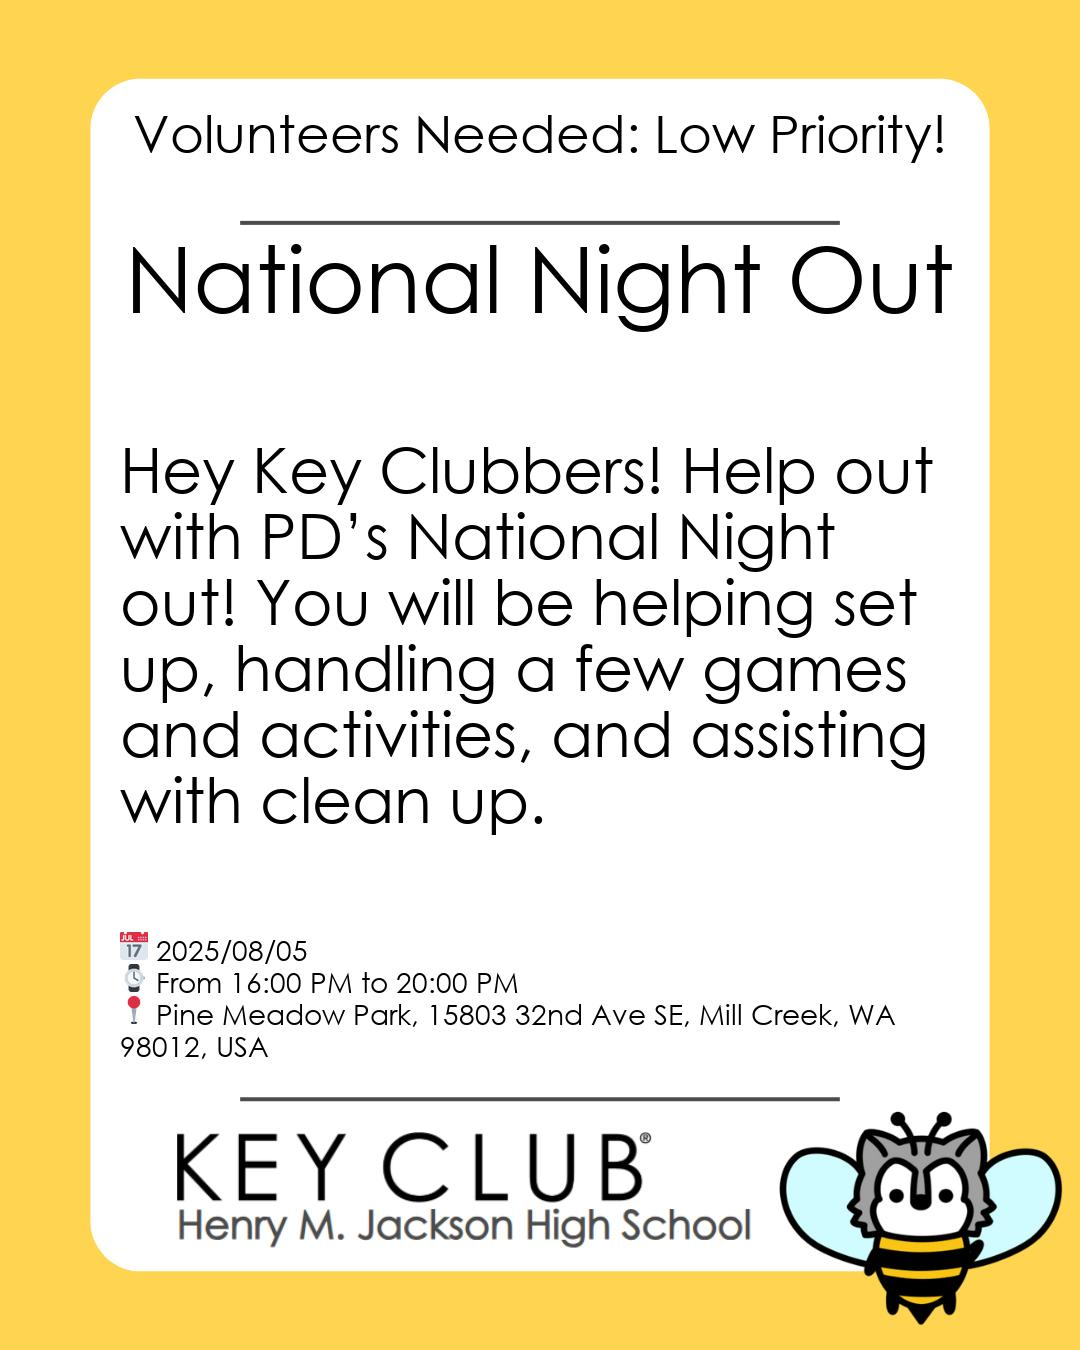
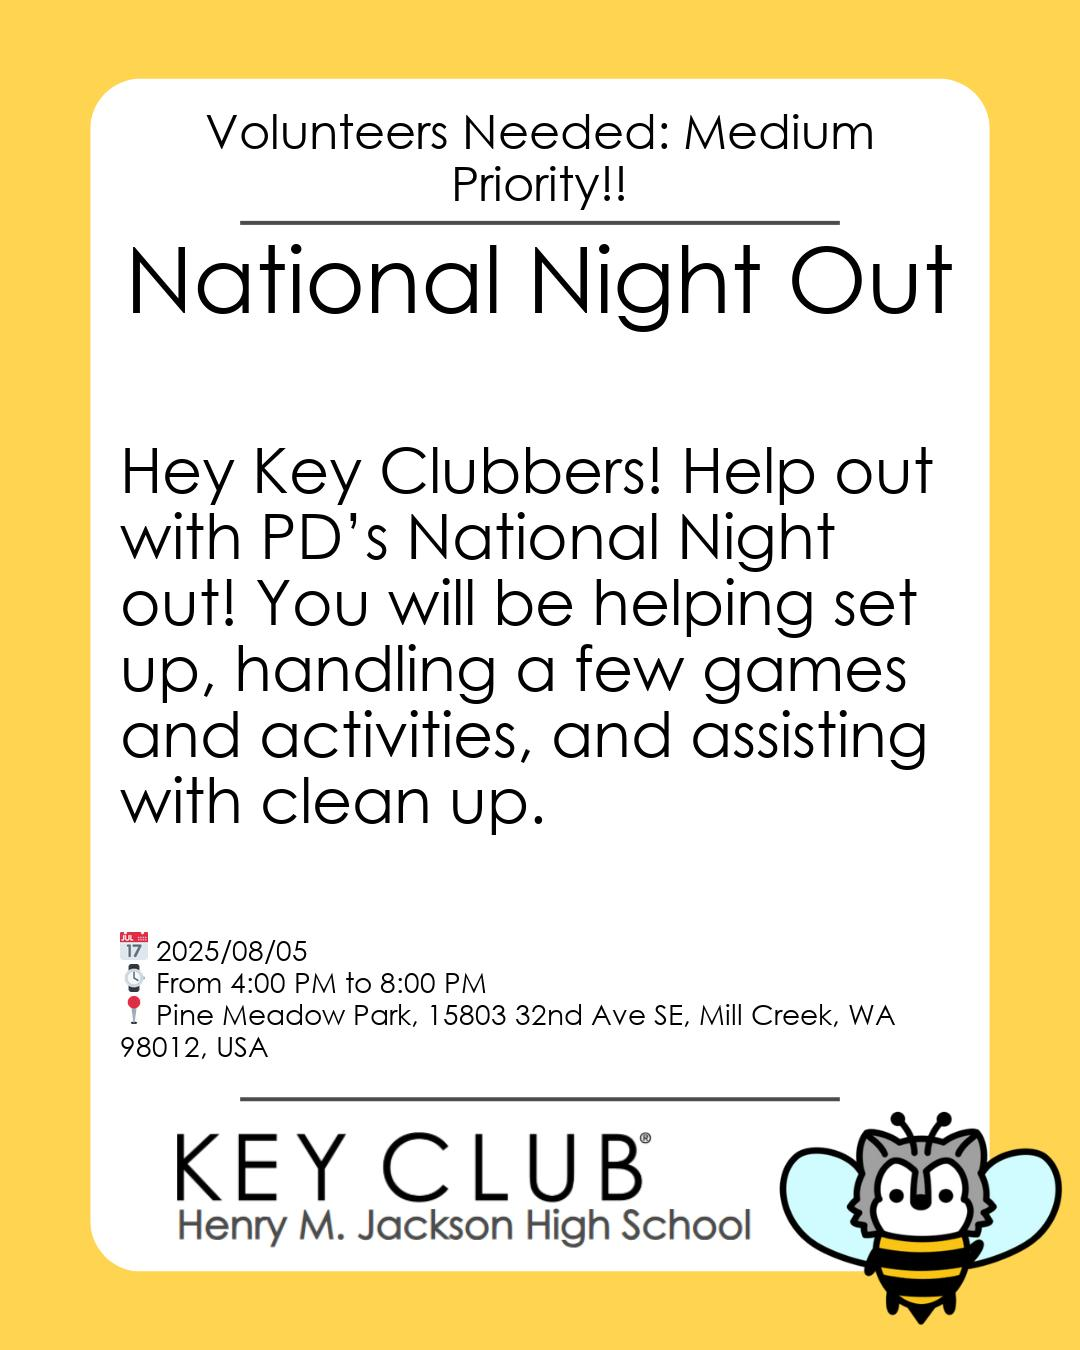
moved from tz offset to ZoneInfo

Changed region(s): [[0.1222, 0.0622, 0.8861, 0.1556], [0.2139, 0.7156, 0.4889, 0.7467]]

diff --git a/main.py b/main.py
@@ -1,4 +1,4 @@
-from utils import fill_template, post_to_instagram, get_events, update_current_events, add_to_current_events
+from utils import fill_template, post_to_instagram, get_events, update_current_events, add_to_current_events, TZFormatter
 
 from googleapiclient.discovery import build
 from google.oauth2.service_account import Credentials
@@ -9,7 +9,7 @@ from cloudinary import uploader as cloudinary_uploader
 from os import getenv
 from dotenv import load_dotenv
 from apscheduler.schedulers.blocking import BlockingScheduler
-from datetime import timezone, timedelta
+from zoneinfo import ZoneInfo
 import json, logging
 
 
@@ -22,7 +22,6 @@ docs_service = build("docs", "v1", credentials=credentials)
 
 calendar_service = build("calendar", "v3", credentials=credentials)
 calendar_id = getenv("CALENDAR_ID")
-tz_offset = timezone(timedelta(hours=-8))
 
 fb_token = getenv("FB_TOKEN")
 
@@ -33,12 +32,16 @@ cloudinary.config(
     secure=True
 )
 
-logging.basicConfig(
-    filename="actions.log",
-    level=logging.INFO,
-    format="%(asctime)s - %(name)s - %(levelname)s - %(message)s",
-    filemode="a" # append new messages
-)
+handler = logging.FileHandler(filename="actions.log", mode="a") # append new messages
+formatter = TZFormatter(fmt='[%(asctime)s] [%(levelname)s] %(name)s: %(message)s',
+                        datefmt='%Y-%m-%d %H:%M:%S',
+                        tz=ZoneInfo("America/Los_Angeles"))
+handler.setFormatter(formatter)
+
+logger = logging.getLogger()
+logger.setLevel(logging.INFO)
+logger.addHandler(handler)
+
 
 # main function that runs every day at 3:00
 def main():
@@ -46,7 +49,7 @@ def main():
     update_current_events()
 
     # gets list of events that should be posted
-    events = get_events(calendar_service=calendar_service, docs_service=docs_service, calendar_id=calendar_id, tz_offset=tz_offset)
+    events = get_events(calendar_service=calendar_service, docs_service=docs_service, calendar_id=calendar_id)
 
     for event in events:
         # creates output.jpg
@@ -62,6 +65,7 @@ def main():
         )
         image.save("output.jpg")
 
+        continue
         # uploads to cloudinary, gets asset id (for removal) and secure url (HTTPS url for posting)
         upload_result = cloudinary_uploader.upload(file="output.jpg", return_delete_token=True)
         public_id, secure_url = upload_result.get("public_id"), upload_result.get("secure_url")
@@ -77,6 +81,6 @@ def main():
         logging.info(f"Successfully posted {event.get('event_title')}")
 
 # runs main every day at 3:00 PM
-scheduler = BlockingScheduler()
+scheduler = BlockingScheduler(timezone=ZoneInfo("America/Los_Angeles"))
 scheduler.add_job(main, "cron", hour=15)
 scheduler.start()

diff --git a/utils.py b/utils.py
@@ -1,6 +1,7 @@
 # utility functions for main.py
 from PIL import Image, ImageFont
 from pilmoji import Pilmoji
+from zoneinfo import ZoneInfo
 from datetime import datetime, timedelta
 from cloudinary import uploader as cloudinary_uploader
 import requests, json, logging, re
@@ -127,8 +128,17 @@ def in_current_events(event_title):
 def format_time(datetime_param):
     datetime_param = datetime.fromisoformat(datetime_param).time()
     period = datetime_param.strftime("%p")
-    datetime_param = ":".join(str(datetime_param).split(":")[:2])  # removes the seconds slot from the time
-    datetime_param = f"{datetime_param} {period}"
+
+    # converts it to 12 hour time
+    hour, minute = datetime_param.hour, datetime_param.minute
+    if hour > 12:
+        hour -= 12
+    hour = str(hour)
+    # if the minute is single digit
+    if minute < 10:
+        minute = "0" + str(minute)
+    minute = str(minute)
+    datetime_param = f"{hour}:{minute} {period}"
 
     return datetime_param
 
@@ -229,9 +239,9 @@ def post_to_instagram(caption, image_url, fb_token):
         return container_id
 
 # returns a list of upcoming events that should be posted in the next 7 days
-def get_events(calendar_service, docs_service, calendar_id, tz_offset):
-    now = datetime.now(tz_offset).isoformat()
-    week = (datetime.now(tz_offset) + timedelta(days=7)).isoformat()
+def get_events(calendar_service, docs_service, calendar_id):
+    now = datetime.now(ZoneInfo("America/Los_Angeles")).isoformat()
+    week = (datetime.now(ZoneInfo("America/Los_Angeles")) + timedelta(days=7)).isoformat()
     all_events = calendar_service.events().list(calendarId=calendar_id, timeMin=now, timeMax=week).execute()
     all_events = all_events.get("items", [])
     return_events = []
@@ -281,3 +291,15 @@ def get_events(calendar_service, docs_service, calendar_id, tz_offset):
         except KeyError: pass
     logging.info("Fetched new events")
     return return_events
+
+# formatter for python logging
+class TZFormatter(logging.Formatter):
+    def __init__(self, fmt=None, datefmt=None, tz=ZoneInfo("America/Los_Angeles")):
+        super().__init__(fmt=fmt, datefmt=datefmt)
+        self.tz = tz
+
+    def formatTime(self, record, datefmt=None):
+        dt = datetime.fromtimestamp(record.created, self.tz)
+        if datefmt:
+            return dt.strftime(datefmt)
+        return dt.isoformat()
